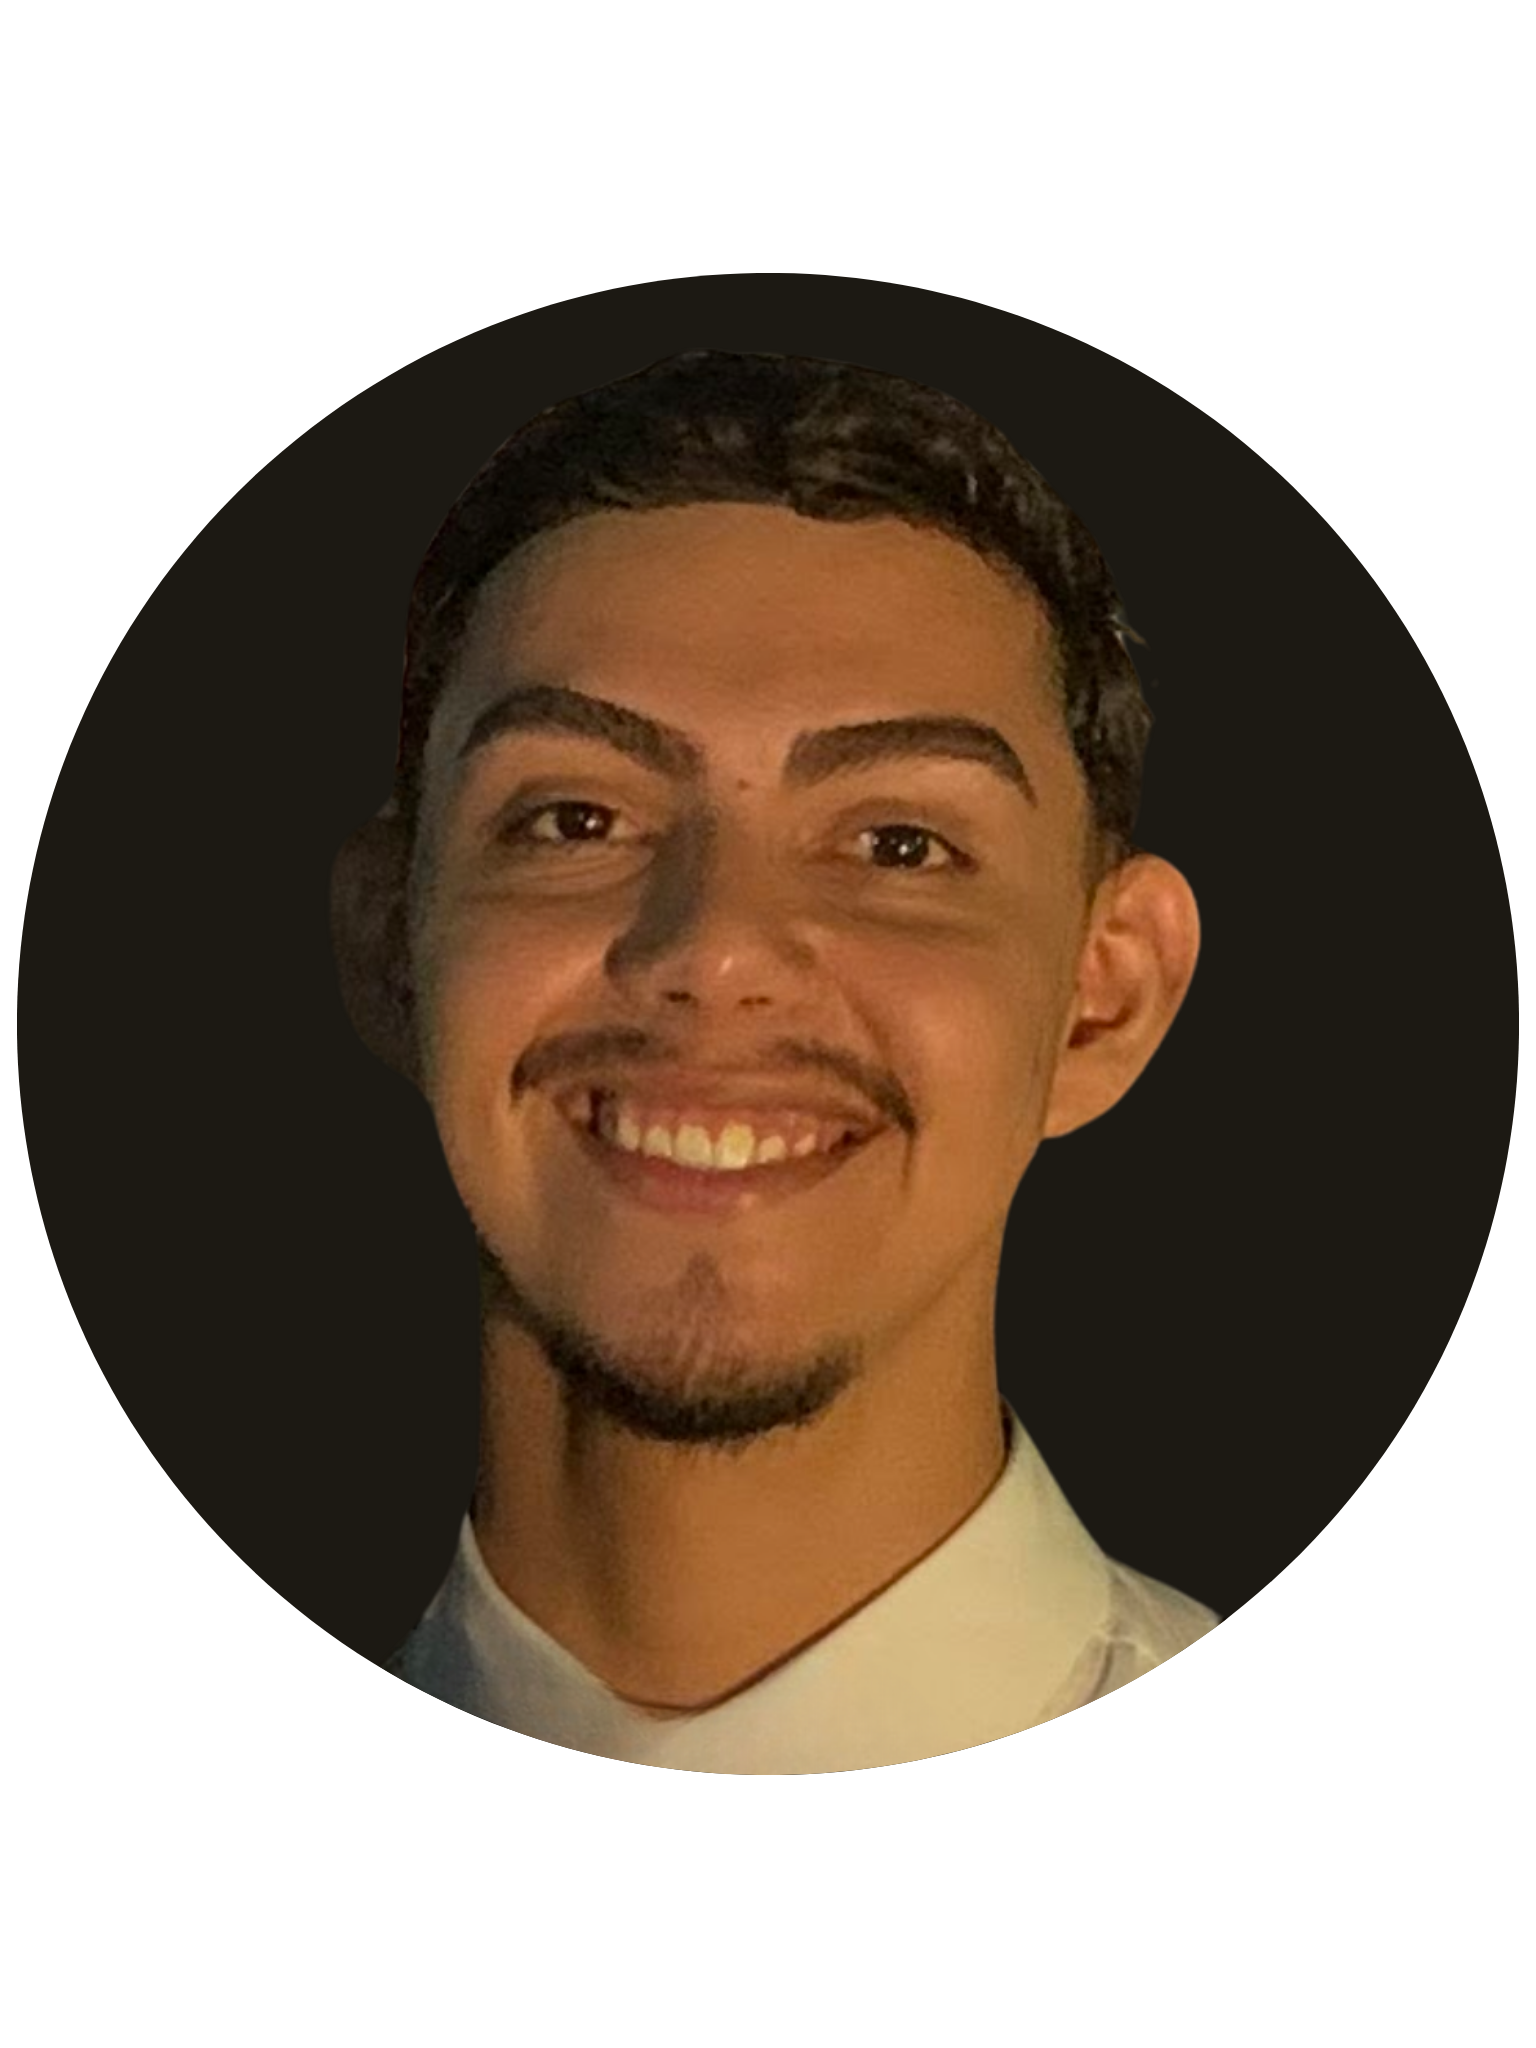
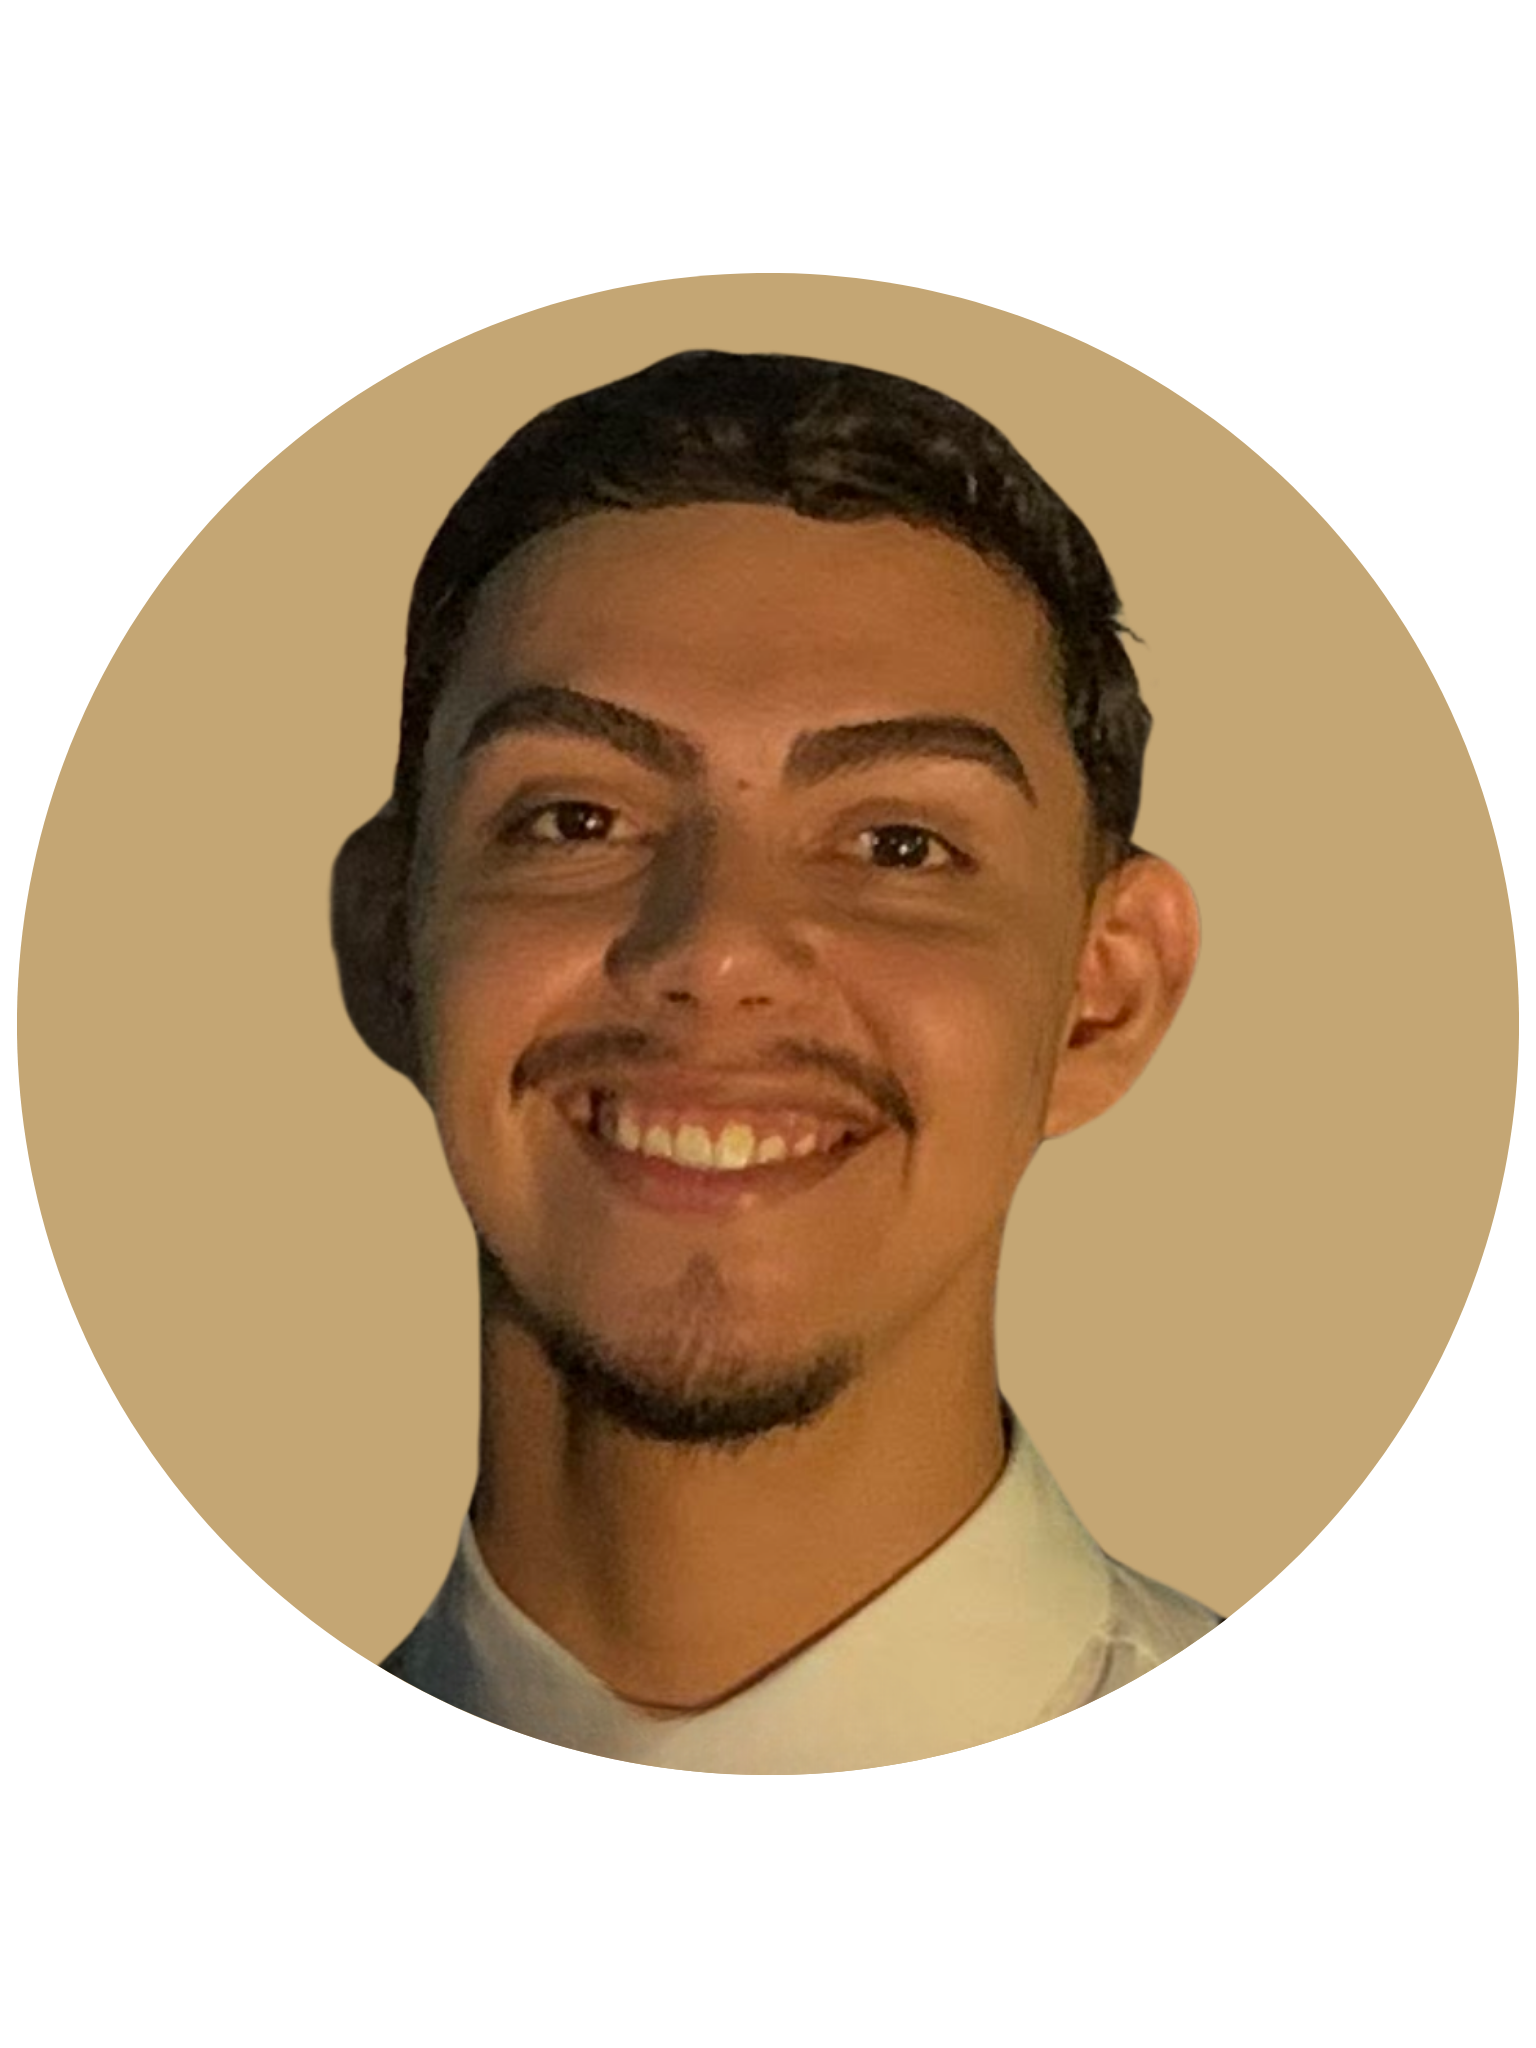
improve styles

Changed region(s): [[0.0, 0.125, 1.0, 0.8125]]

diff --git a/style.css b/style.css
@@ -3,21 +3,41 @@
   padding: 0;
   box-sizing: border-box;
 }
+
+:root{ 
+  --text-color: white;
+  --bg-url: url(./assets/bg.png);
+  --stroke-color: rgba(255, 255, 255, 0.5);
+  --surface-color:rgba(255, 255, 255, 0.1);
+  --surface-color-hover: rgba(255, 255, 255, 0.05);
+  --social-hover: rgba(255, 255, 255, 0.15);
+}
+
+.light{ 
+  --text-color: black;
+  --bg-url:url(./assets/bg-light.jpg);
+  --stroke-color: black;
+  --surface-color: rgba(255, 255, 255, 0.05);
+  --surface-color-hover: rgba(255, 255, 255, 0.15);
+  --social-hover: rgba(255, 255, 255, 0.15);
+}
+
 body {
-  background: url(./assets/Background.png) top center/cover;
+  background:var(--bg-url) top center/cover;
   background-repeat: no-repeat;
 }
 body * {
   font-family: "Inter", sans-serif;
-  color: white;
+  color: var(--text-color);
 }
 #container {  
   width: 100%;
+  margin-top: 64px;
   padding: 0 24px;
   display: flex;
   flex-direction: column;
   align-items: center;
-  justify-content: space-between;
+  justify-content: space-evenly;
   height: 100vh;
 }
 #content {
@@ -53,8 +73,8 @@ ul li a {
   text-decoration: none;
   font-weight: 500;
 
-  background-color: rgba(255, 255, 255, 0.1);
-  border: 1px solid rgba(255, 255, 255, 0.5);
+  background-color: var(--surface-color);
+  border: 1px solid var(--stroke-color);
   border-radius: 8px;
 
   backdrop-filter: blur(8px);
@@ -62,8 +82,8 @@ ul li a {
   transition: background 0.2s;
 }
 ul li a:hover {
-  background-color: rgba(255, 255, 255, 0.05);
-  border: 1.5px solid white;
+  background-color: var(--surface-color-hover);
+  border: 1.5px solid var(--text-color);
 }
 #social-links {
   display: flex;
@@ -82,7 +102,7 @@ ul li a:hover {
 }
 
 #social-links a:hover {
-  background-color: rgba(255, 255, 255, 0.15);
+  background-color: var(--social-hover);
 }
 
 /* rodapé */
@@ -92,7 +112,7 @@ footer {
   text-align: center;
   justify-content: center;
   padding: 12px;
-  border-top: solid 1px #ffffff;
+  border-top: solid 1px var(--text-color);
   width: 320px;
   font-family: "Poppins", serif;
   font-style: initial;

diff --git a/index.html b/index.html
@@ -1,5 +1,5 @@
 <!DOCTYPE html>
-<html lang="pt-br">
+<html lang="pt-br" class="light">
   <head>
     <link rel="preconnect" href="https://fonts.googleapis.com" />
     <link rel="preconnect" href="https://fonts.gstatic.com" crossorigin />
@@ -23,7 +23,7 @@
       <div id="content">
         <div id="profile">
           <img
-            src="./assets/gatinho.png"
+            src="./assets/avatar.png"
             alt="Foto de Walace Ribeiro sorrindo.
           "
           />
